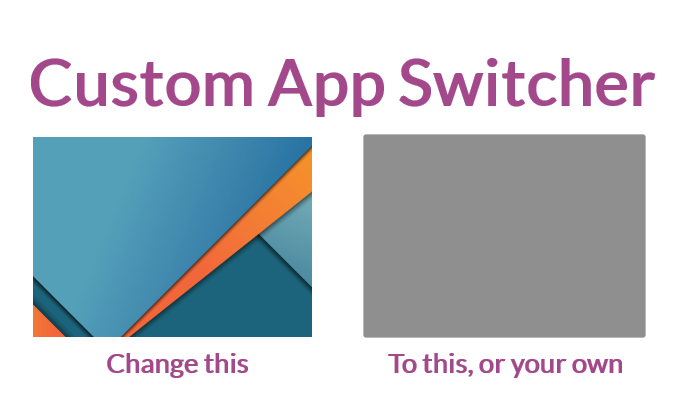
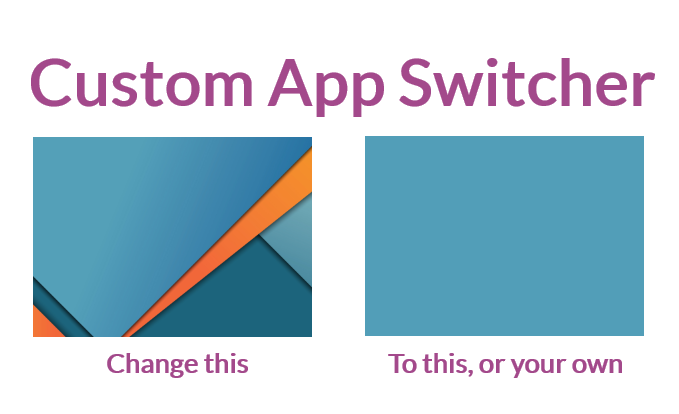
Resolve path and file naming issues. Fix typos.

Changed region(s): [[0.5258, 0.3188, 0.9588, 0.8406]]

diff --git a/ui_app_switcher/static/description/index.html b/ui_app_switcher/static/description/index.html
@@ -1,25 +1,27 @@
-<section class="oe_container oe_dark">
+    <section class="oe_container oe_dark">
     <div class="oe_row oe_spaced">
         <div class="oe_span12">
             <h2 class="oe_slogan">Custom App Switcher</h2>
-            <h3 class="oe_slogan">Replace the default image with a solid background, or one of your own</h3>
+            <h3 class="oe_slogan">Replace the default image</h3>
             <h4 class="oe_slogan">Personalize the App Switcher background!</h4>
             </div>
         <div class="oe_span12">
             <p class="oe_mt32">
-For Odoo Enterprise Version 9.0, this module replaces the default App Switcher background with a single gray image background.  By replacing the image file in this module, you can further personalize the Odoo App Switcher page.  This is a very simply module.  It serves as an ideal example for those who are learning how to build modules with Odoo.
+For Odoo Enterprise Version 9.0, this module replaces the default App Switcher background with a single blue image background.  By replacing the image file in this module, you can further personalize the Odoo App Switcher page.  This is a very simply module.  It serves as an ideal example for those who are learning how to build modules with Odoo.
             </p>
             
         </div>
     </div>
 </section>
+
 <section class="oe_container">
     <div class="oe_row oe_spaced">
         <div class="oe_span12">
-		    <center><img src="custom_app_switcher.png"/></center>
-		</div>
-	</div>
+                <center><img src="custom_app_switcher.png"/></center>
+                </div>
+        </div>
 </section>
+
 <section class="oe_container oe_dark">
     <div class="oe_row oe_spaced">
         <h2 class="oe_slogan">Share your experience with us!</h2>

diff --git a/ui_app_switcher/__openerp__.py b/ui_app_switcher/__openerp__.py
@@ -3,11 +3,11 @@
 
 {
     "name" : "Custom App Switcher",
-    "version" : "1.9",
+    "version" : "1.9.1",
     "author" : "Bista Solutions",
     "category" : "Extra Tools",
 	"summary": "Change App Switcher background image (Bista)",
-    'description': "For Odoo Enterprise Version 9.0, this module replaces the default App Switcher background with a single blue image background. By replacing the image file in this module, you can further personalize the Odoo Apps Switcher page. This is a very simply module. It serves as an ideal example for those who are learning how to build modules with Odoo.",
+    'description': "For Odoo Enterprise Version 9.0, this module replaces the default App Switcher background with a single blue image background. By replacing the image file in this module, you can further personalize the Odoo App Switcher page. This is a very simply module. It serves as an ideal example for those who are learning how to build modules with Odoo.",
     'maintainer': "Bista Solutions",
     'website': 'http://www.bistasolutions.com/odoo-implementation-partners',
     'images': ['static/description/custom_app_switcher.png'],
@@ -19,7 +19,7 @@
     ],
     "test" : [
     ],
-	"images": ['static/description/custom_app_switcher.png'],
+    "images": ['static/description/custom_app_switcher.png'],
     "auto_install": False,
     "application": False,
     "installable": True,

diff --git a/ui_app_switcher/README.md b/ui_app_switcher/README.md
@@ -1,1 +1,1 @@
-For Odoo Enterprise Version 9.0, this module replaces the default App Switcher background with a single blue image background. By replacing the image file in this module, you can further personalize the Odoo App Switcher page. This is a very simply module. It serves as an ideal example for those who are learning how to build modules with Odoo.
+For Odoo Enterprise Version 9.0, this module replaces the default Apps Switcher background with a single blue image background. By replacing the image file in this module, you can further personalize the Odoo Apps Switcher page. This is a very simply module. It serves as an ideal example for those who are learning how to build modules with Odoo.
